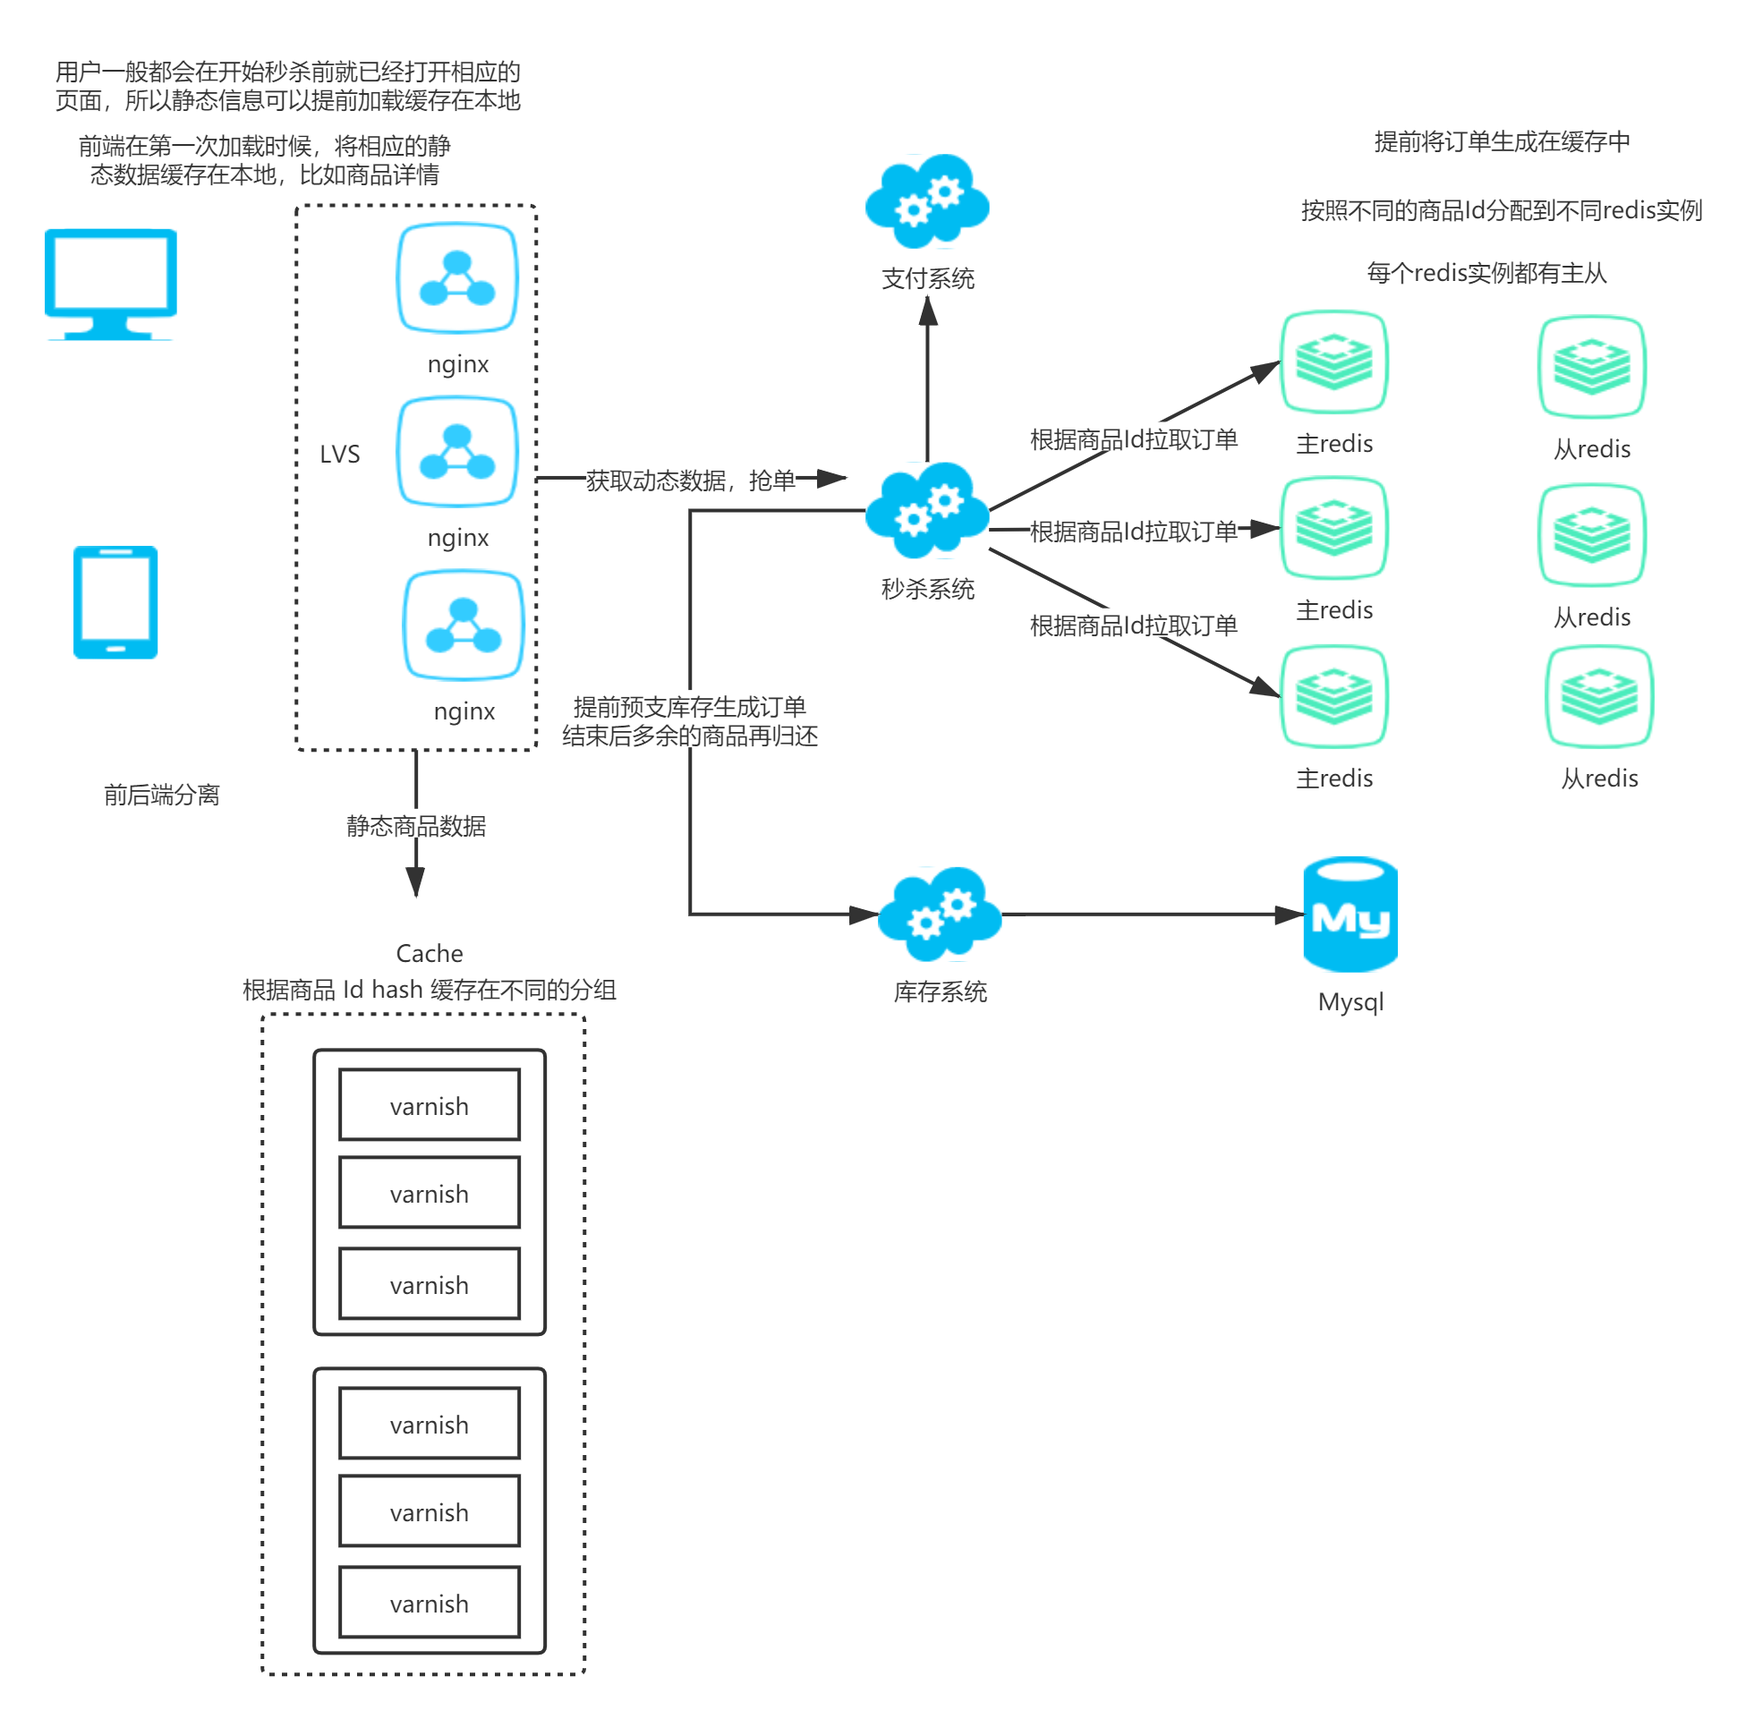
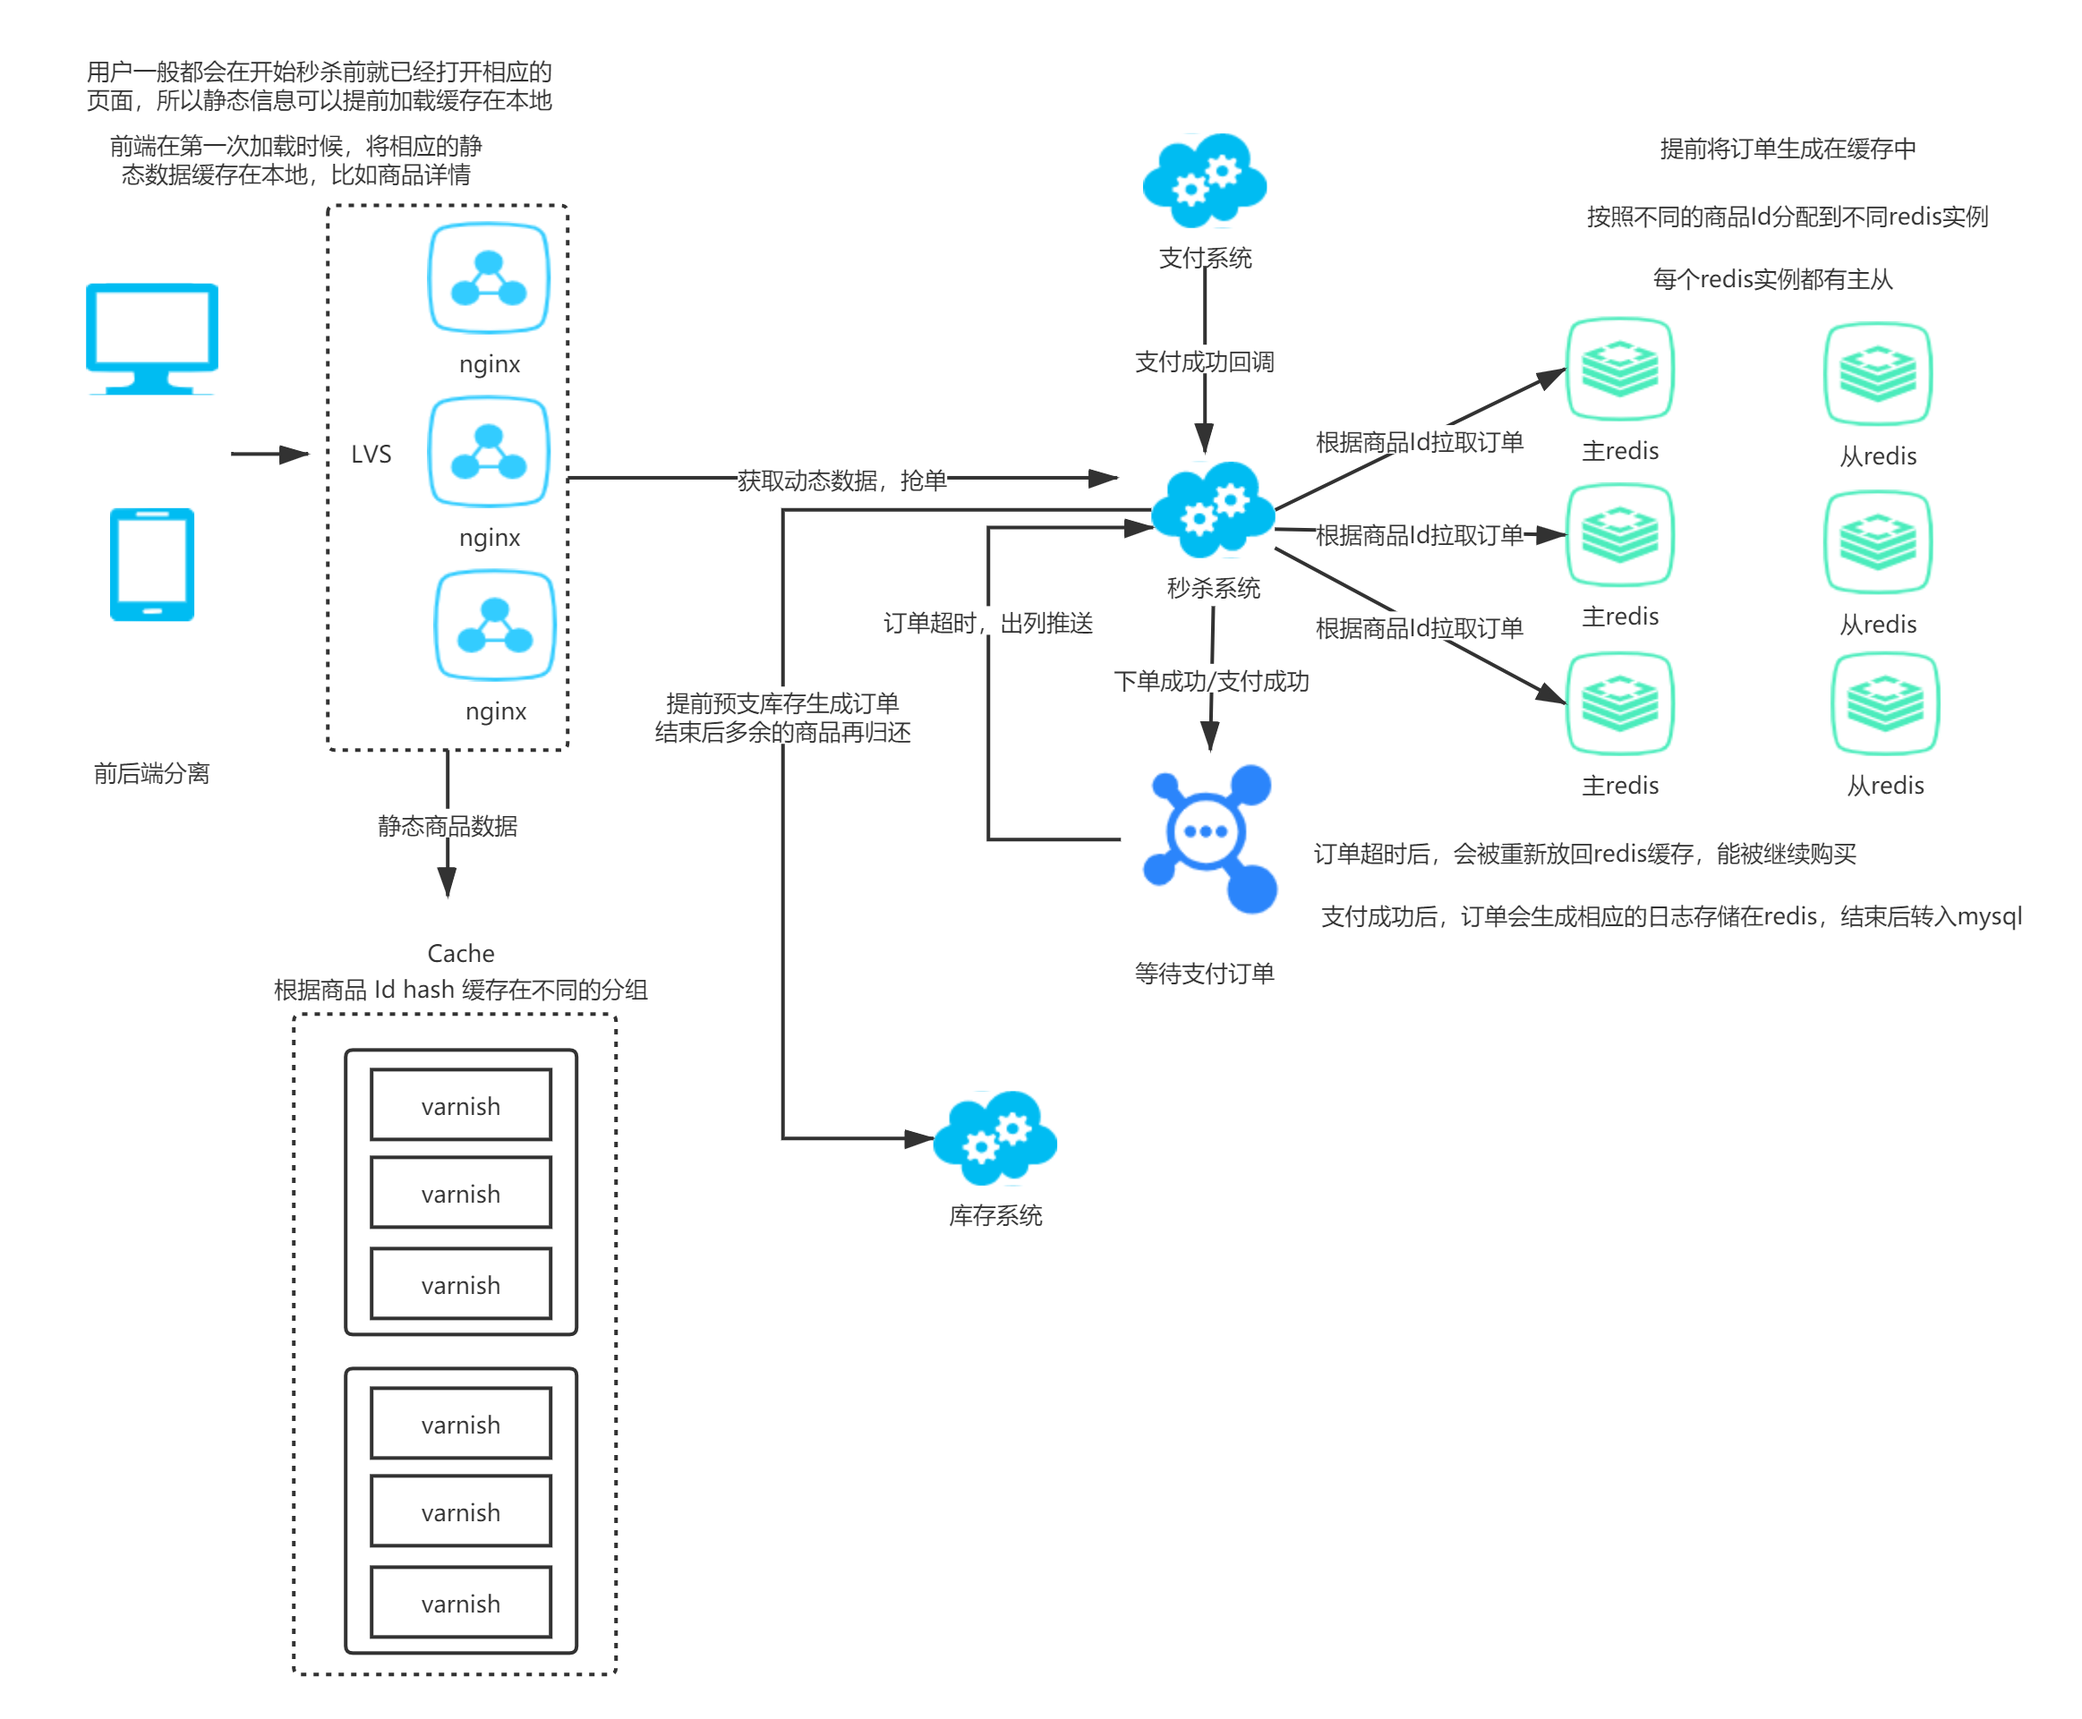
homework 15

diff --git a/Week_15/README.md b/Week_15/README.md
@@ -17,6 +17,8 @@
 - 能准时点击秒杀按钮，发送秒杀请求
 - 请求能快速响应，不管成功还是失败
 - 秒杀失败后，能继续点击秒杀按钮，直到商品被抢完。
+- 防止机器人等恶意抢单。
+- 前端负载秒杀活动倒计时。
 
 ### 非功能性需求
 
@@ -40,41 +42,33 @@
 
 ## 技术设计
 
-### 前端 - 买家
-
-- 前端静态资源文件：HTML文件，CSS，js，图片等通过 Nginx 做静态资源代理。
-- 静态数据，例如商品详情，可以在第一次加载后缓存在前端，因为很多时候，参加秒杀的人都会提前加载页面，这时候用户刷新页面的时候，就直接取本地静态数据进行加载。
-- 动态数据，比如秒杀商品剩余量，通过后端的 rsetful 接口获取。
-- 防止机器人等恶意抢单。
-- 前端负载秒杀活动倒计时。
-
-### 前端 - 卖家
-
-- 卖家页面要求比较简单，能在秒杀活动开始之前的一定时间内，注册参加活动的商品和相关信息。
-
-## 技术选型
-
 ### 前端
 
-使用前后端分离设计，前端使用vue作为框架开发，静态数据缓存在本地。
+使用前后端分离设计，静态资源文件放到CDN，加快资源加载速度，减轻后端压力。
 
 #### 反向代理
 
-使用 LVS + Nginx 搭建高可用的反向代理集群，同时 Nginx 也是静态资源服务器。
+使用 LVS + Nginx 搭建高可用的反向代理集群。
 
 #### 静态数据缓存
 
 虽然静态数据会缓存到前端，但是这是不可控的。用户可以删除缓存，也有可能关闭缓存功能，或者因为一些其他原因本地缓存失效。所以对于静态数据的请求在 nginx 后面还要做一层缓存。
 
-#### 业务网关
-
-不使用业务网关：为了减少请求的转发路径，这里不使用业务网关，请求通过nginx后，如果是动态请求则直接进入秒杀系统处理。
-
 #### 订单预分配到缓存
 
 参加活动的商品会提前从库存预支，转换成订单预分配到 redis 集群中。
 
+活动结束后，Redis 中剩余的商品订单会重新归还到库存系统
+
 预订单按照商品 ID 的 hash 值，分配到不同的 redis 实例，每个 redis 实例都配有从实例。
+
+#### 消息队列
+
+消息队列使用RocketMQ，用户秒杀下单成功的时候，将订单和用户关联投递到 MQ 中。
+
+秒杀系统订阅MQ，订单超时没支付将会推送回秒杀系统，秒杀系统重新放入 redis 缓存。
+
+如果支付系统回调，订单支付成功，则删除队列中的订单消息，并其生成订单记录缓存到 Redis 中，等待秒杀活动结束后，重新持久化到 Mysql。
 
 #### 对接服务 
 
